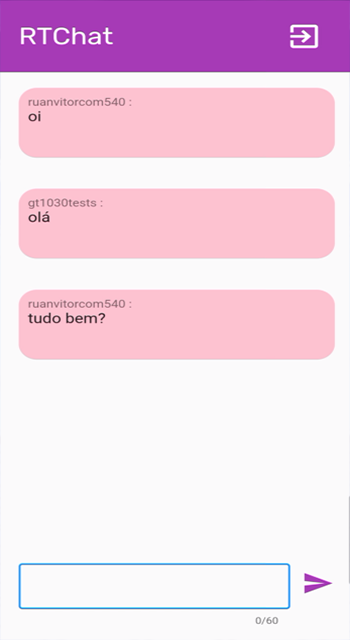
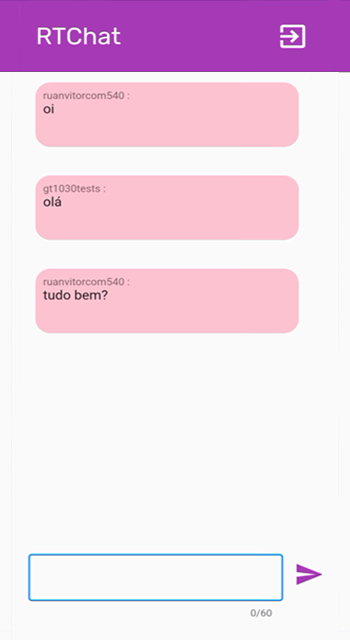
(Versão 2.1) Atualizando imagem

diff --git a/flutter_service_worker.js b/flutter_service_worker.js
@@ -24,7 +24,7 @@ const RESOURCES = {"assets/AssetManifest.bin": "21a58bbd8e5037e58d58345814072592
 "assets/assets/images/pokearena.png": "33531092f22b0fee0b62cc6c5cb13808",
 "assets/assets/images/progedu.png": "7d30fdd54fd3d639c7dc2879c1b544e7",
 "assets/assets/images/react.png": "de303a4b45071fde56699d2ccb5eb60e",
-"assets/assets/images/rtchat.png": "885a5c68f5504d14661d7e4461766295",
+"assets/assets/images/rtchat.png": "9a45f4cf09b0204dd071ffdd43065106",
 "assets/assets/images/ruan.png": "28486c3c65920cc7c1bf9ffa4b4bb691",
 "assets/assets/images/sql.png": "82ef5b396f394fef6f3c4fff17895d40",
 "assets/assets/images/twitterl.png": "4564211d776424e31f50bda98a975675",
@@ -48,8 +48,8 @@ const RESOURCES = {"assets/AssetManifest.bin": "21a58bbd8e5037e58d58345814072592
 "icons/Icon-512.png": "96e752610906ba2a93c65f8abe1645f1",
 "icons/Icon-maskable-192.png": "c457ef57daa1d16f64b27b786ec2ea3c",
 "icons/Icon-maskable-512.png": "301a7604d45b3e739efc881eb04896ea",
-"index.html": "77bd82bcbcfd572573fc276c9dc5b7b7",
-"/": "77bd82bcbcfd572573fc276c9dc5b7b7",
+"index.html": "2f50b0961fb1d9a4f9aa22b2fac56ec2",
+"/": "2f50b0961fb1d9a4f9aa22b2fac56ec2",
 "main.dart.js": "6c25e341740cbbc5d5aa0445df582546",
 "manifest.json": "e74af8957b5899dc6da961caee768ec9",
 "version.json": "396c903be24e05680276e5d88d453065"};

diff --git a/index.html b/index.html
@@ -34,7 +34,7 @@
 
   <script>
     // The value below is injected by flutter build, do not touch.
-    const serviceWorkerVersion = "2740071245";
+    const serviceWorkerVersion = "3092558490";
   </script>
   <!-- This script adds the flutter initialization JS code -->
   <script src="flutter.js" defer></script>
